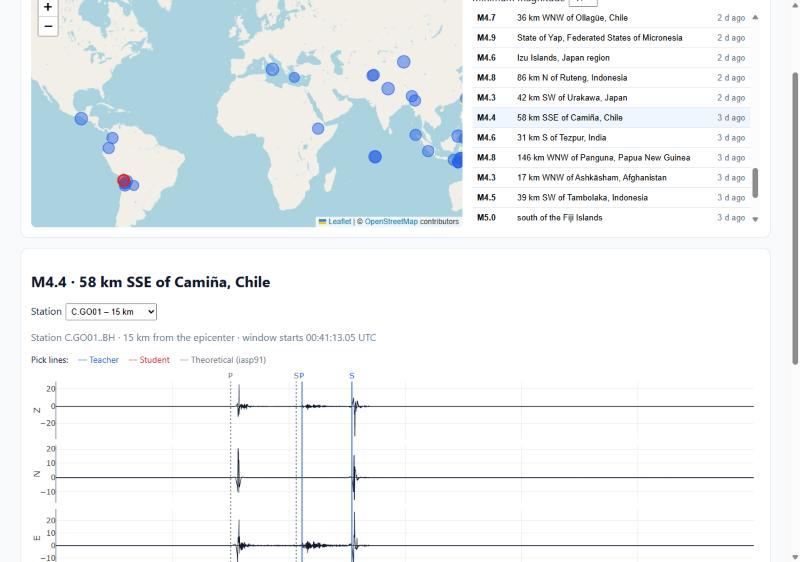
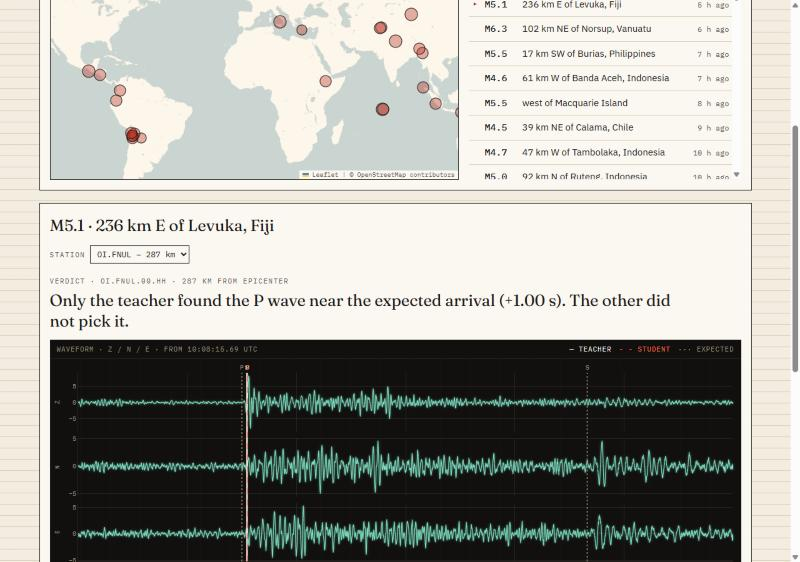
docs: README screenshots of the redesigned site (light and dark)

diff --git a/README.md b/README.md
@@ -4,7 +4,13 @@
 
 **Live demo:** https://eqt-live-6nkkumst7q-uc.a.run.app
 
-![EQT-Live analyzing a M4.4 earthquake in Chile](docs/screenshot.jpg)
+![EQT-Live in light mode, analyzing a M5.1 earthquake near Fiji](docs/screenshot.jpg)
+
+<details><summary>Dark mode</summary>
+
+![EQT-Live in dark mode](docs/screenshot-dark.jpg)
+
+</details>
 
 EQT-Live runs two deep-learning models side by side on **real seismic recordings**:
 
